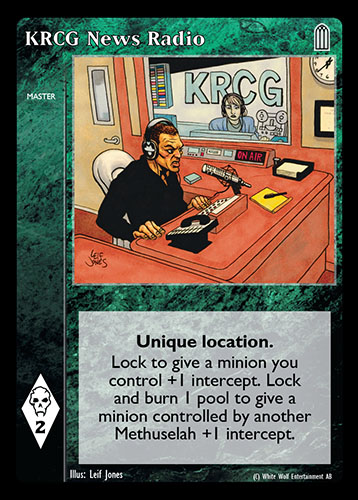
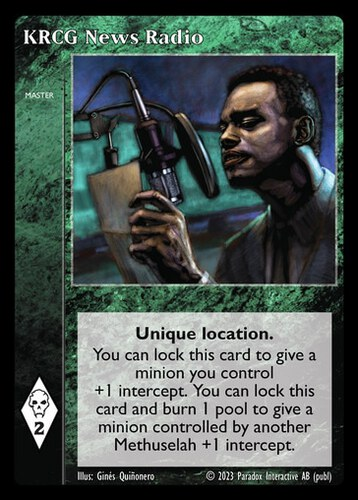
update card images

diff --git a/TODO.md b/TODO.md
@@ -2,9 +2,7 @@
 - Modal opening new window instead of closing when click outside on mobile (touch)
 - Mobile support for Tournament Analyze
 - Fix Card Version in About after V5C release
-- Borders in selector corners
-- Playtest modifier
-- Update images
+- Show playtest icon
 - Remove ToD cards
 
 # FEATURES
